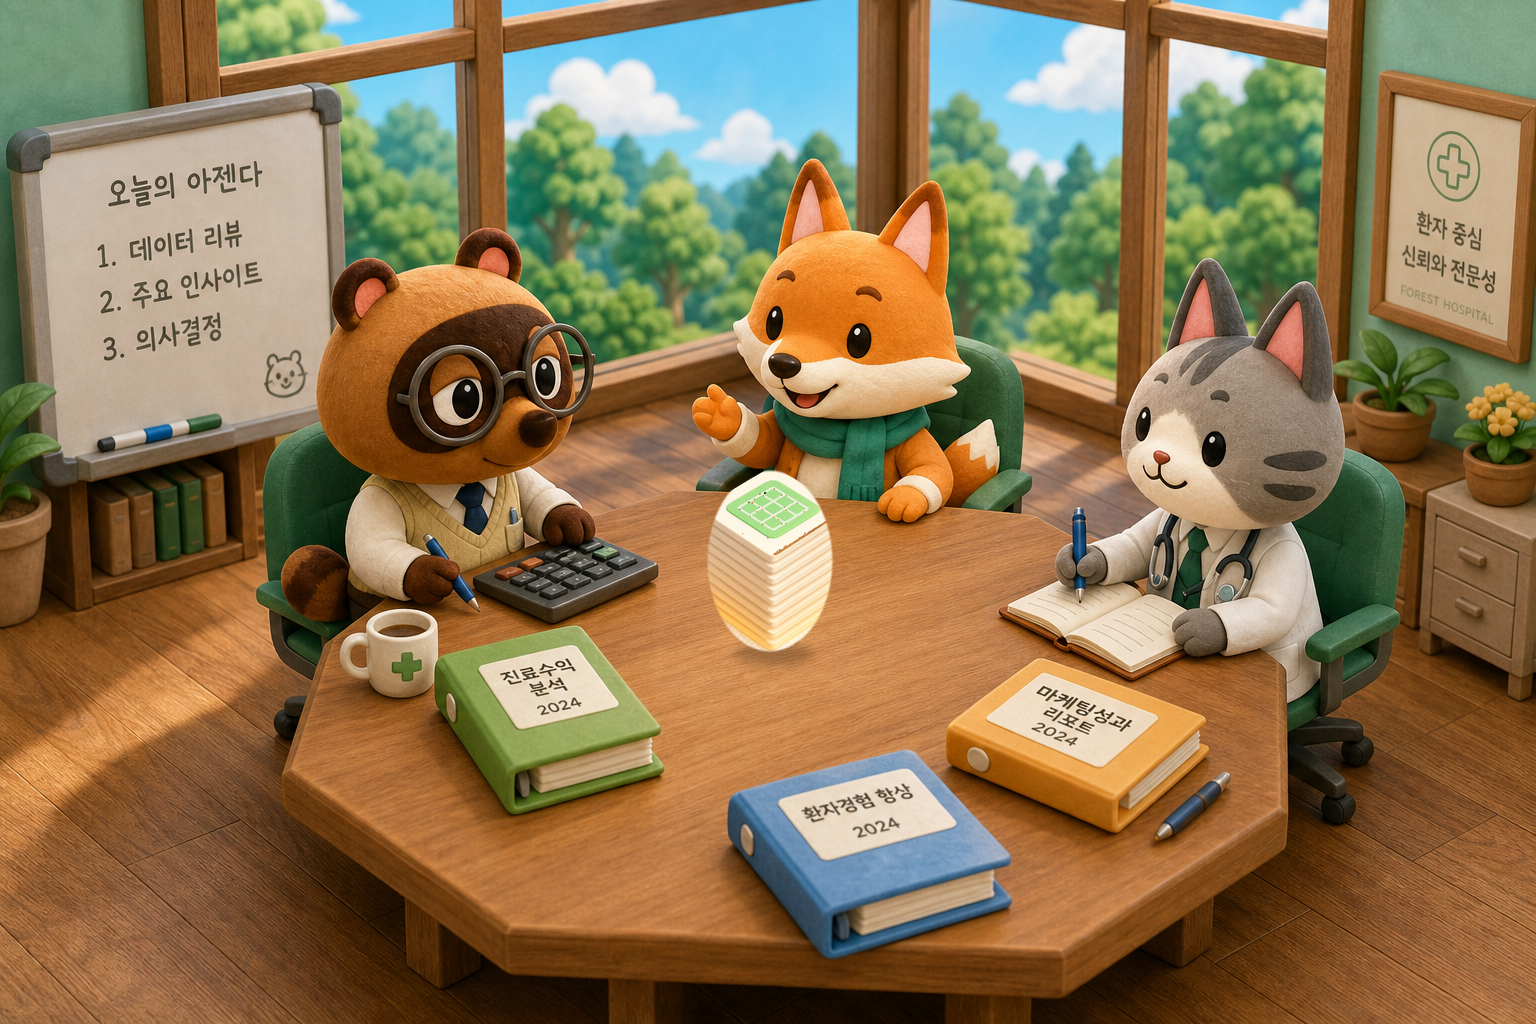
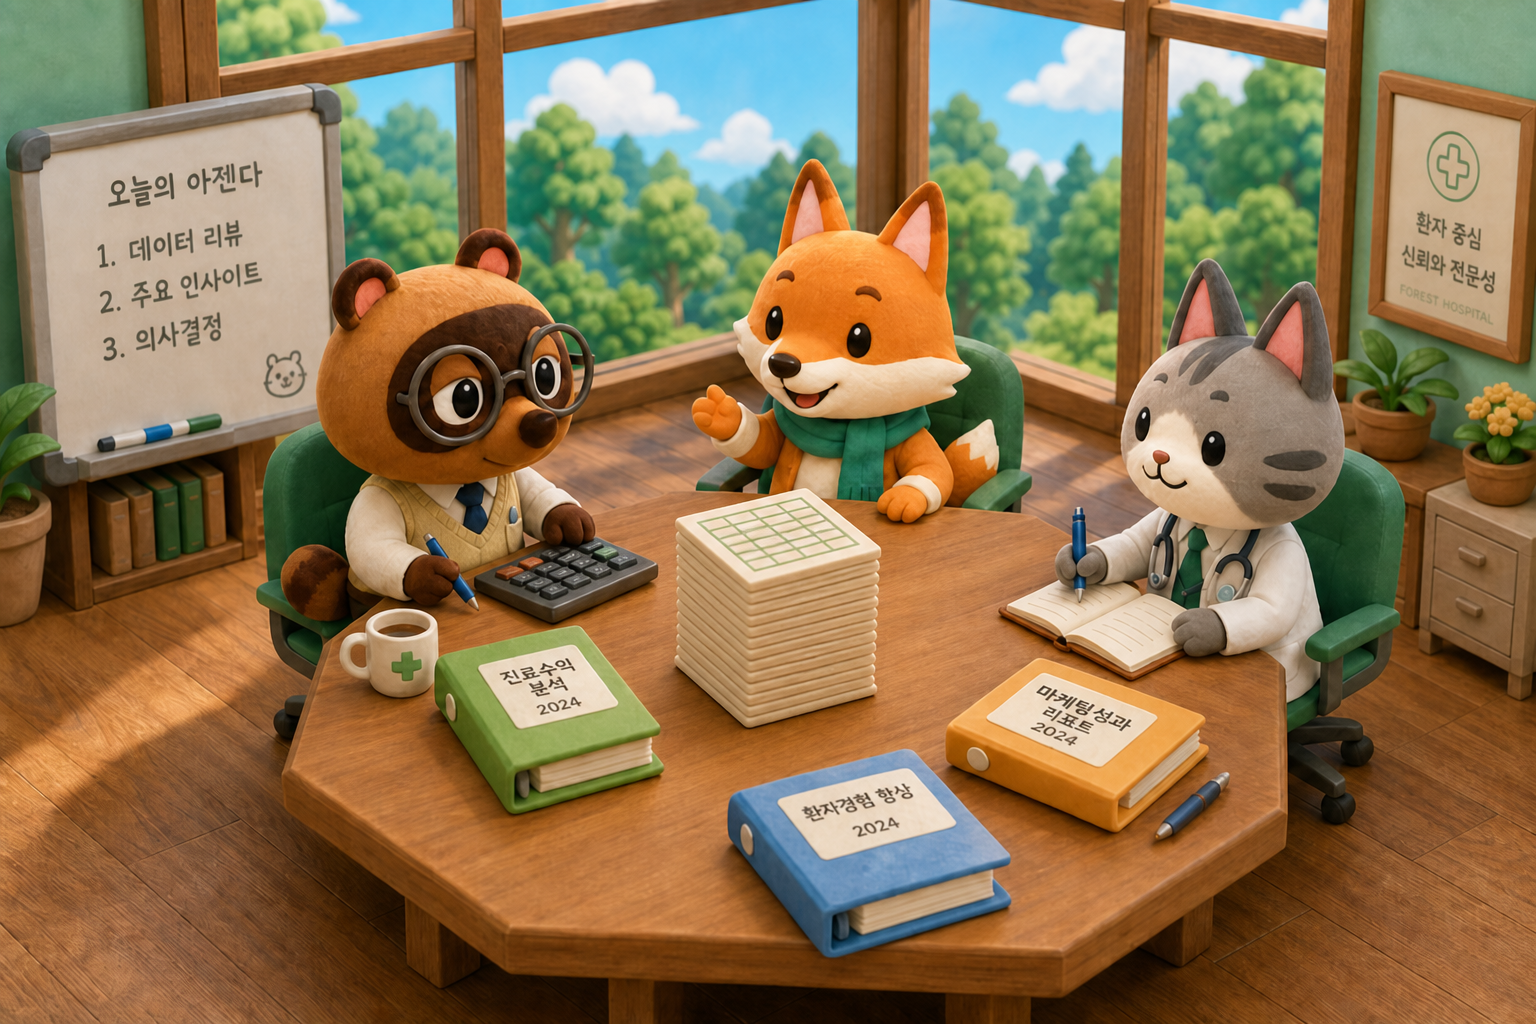
Paint clay papers into the original meeting room.
Pasting the isometric stack PNG still looked like a sticker; idle and stacked rooms now keep the binders and lighting, with a cream pile on the wood.

diff --git a/app/globals.css b/app/globals.css
@@ -611,12 +611,12 @@ body {
 
 .paper-pile-anchor {
   position: absolute;
-  /* Over the baked stack in forest-room-idle / stacked — table center. */
-  top: 64%;
-  left: 50.2%;
+  /* Over the inpainted clay pile — table center, foot on wood. */
+  top: 66.6%;
+  left: 50.15%;
   z-index: 4;
-  width: 6.2rem;
-  height: 4.6rem;
+  width: 7.4rem;
+  height: 9.4rem;
   pointer-events: none;
   transform: translate(-50%, -100%);
 }
@@ -700,7 +700,7 @@ body {
 .table-waiting-label {
   position: absolute;
   top: auto;
-  bottom: 4.2rem;
+  bottom: 3.15rem;
   left: 50%;
   z-index: 8;
   margin: 0;

diff --git a/components/meeting-scene.tsx b/components/meeting-scene.tsx
@@ -43,8 +43,8 @@ export function MeetingScene({
         <Image
           src={
             waiting
-              ? "/forest-room-idle.png?v=bake1"
-              : "/forest-room-stacked.png?v=bake1"
+              ? "/forest-room-idle.png?v=inpaint1"
+              : "/forest-room-stacked.png?v=inpaint1"
           }
           alt="포레스트 병원 회의실 — 너구리 재무이사, 여우 마케팅실장, 고양이 진료원장"
           fill

diff --git a/doc/progress/2026-08-30-inpaint-papers.md b/doc/progress/2026-08-30-inpaint-papers.md
@@ -1,0 +1,25 @@
+# 2026-08-30 서류를 원본 회의실에 인페인트
+
+## 10단계
+
+1. 바인더가 맞는 이유: `forest-room.png`와 같이 그려져 조명·원근·점토가 같다.
+2. 중앙 서류가 안 맞는 이유: 다른 카메라의 흰 아이소메트릭 PNG다.
+3. 그 PNG를 나무 위에 합성해도(bake1) 후광·스티커가 남는다.
+4. CSS 필터·세피아·크기 조절은 스티커를 남긴다.
+5. 해결: 원본 회의실을 유지한 채 빈 나무에만 점토 서류를 그린다.
+6. 대기는 `forest-room-idle.png` — 크림 4~5장, 윗장만 민트 그리드.
+7. 업로드·토론은 `forest-room-stacked.png` — 같은 점토로 높은 산.
+8. 접촉은 바인더처럼 나무색 그림자. 흰 글로우·노란 방사광 없음.
+9. CSS 오버레이 서류 PNG는 그리지 않는다. 스파클·대기 문구만.
+10. HTTPS에서 대기 홈과 업로드 후 홈을 확인한다.
+
+## 이번에 한 일
+
+- `forest-room-idle.png` / `forest-room-stacked.png`를 원본 인페인트로 교체.
+- 캐시 `?v=inpaint1`.
+- 실토론 버튼은 누르지 않는다.
+
+## 검증
+
+- 단위 `pnpm test`
+- HTTPS https://boardroom-six-delta.vercel.app
